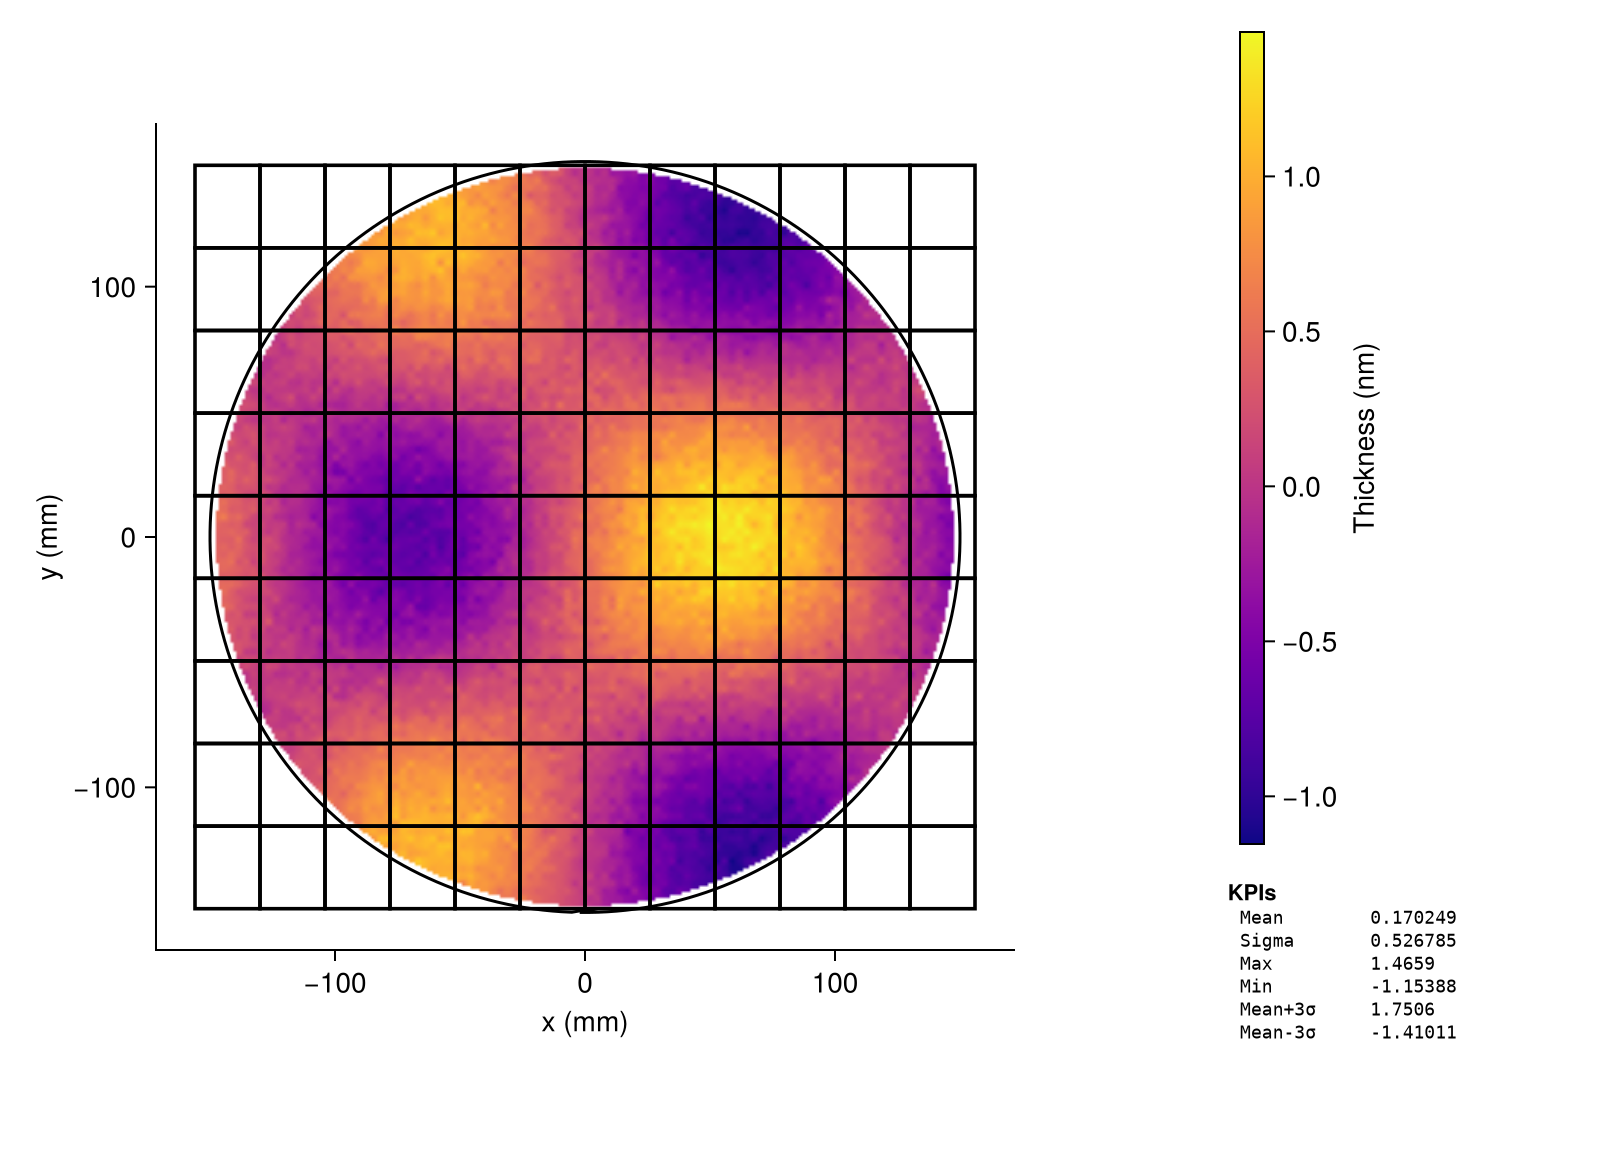
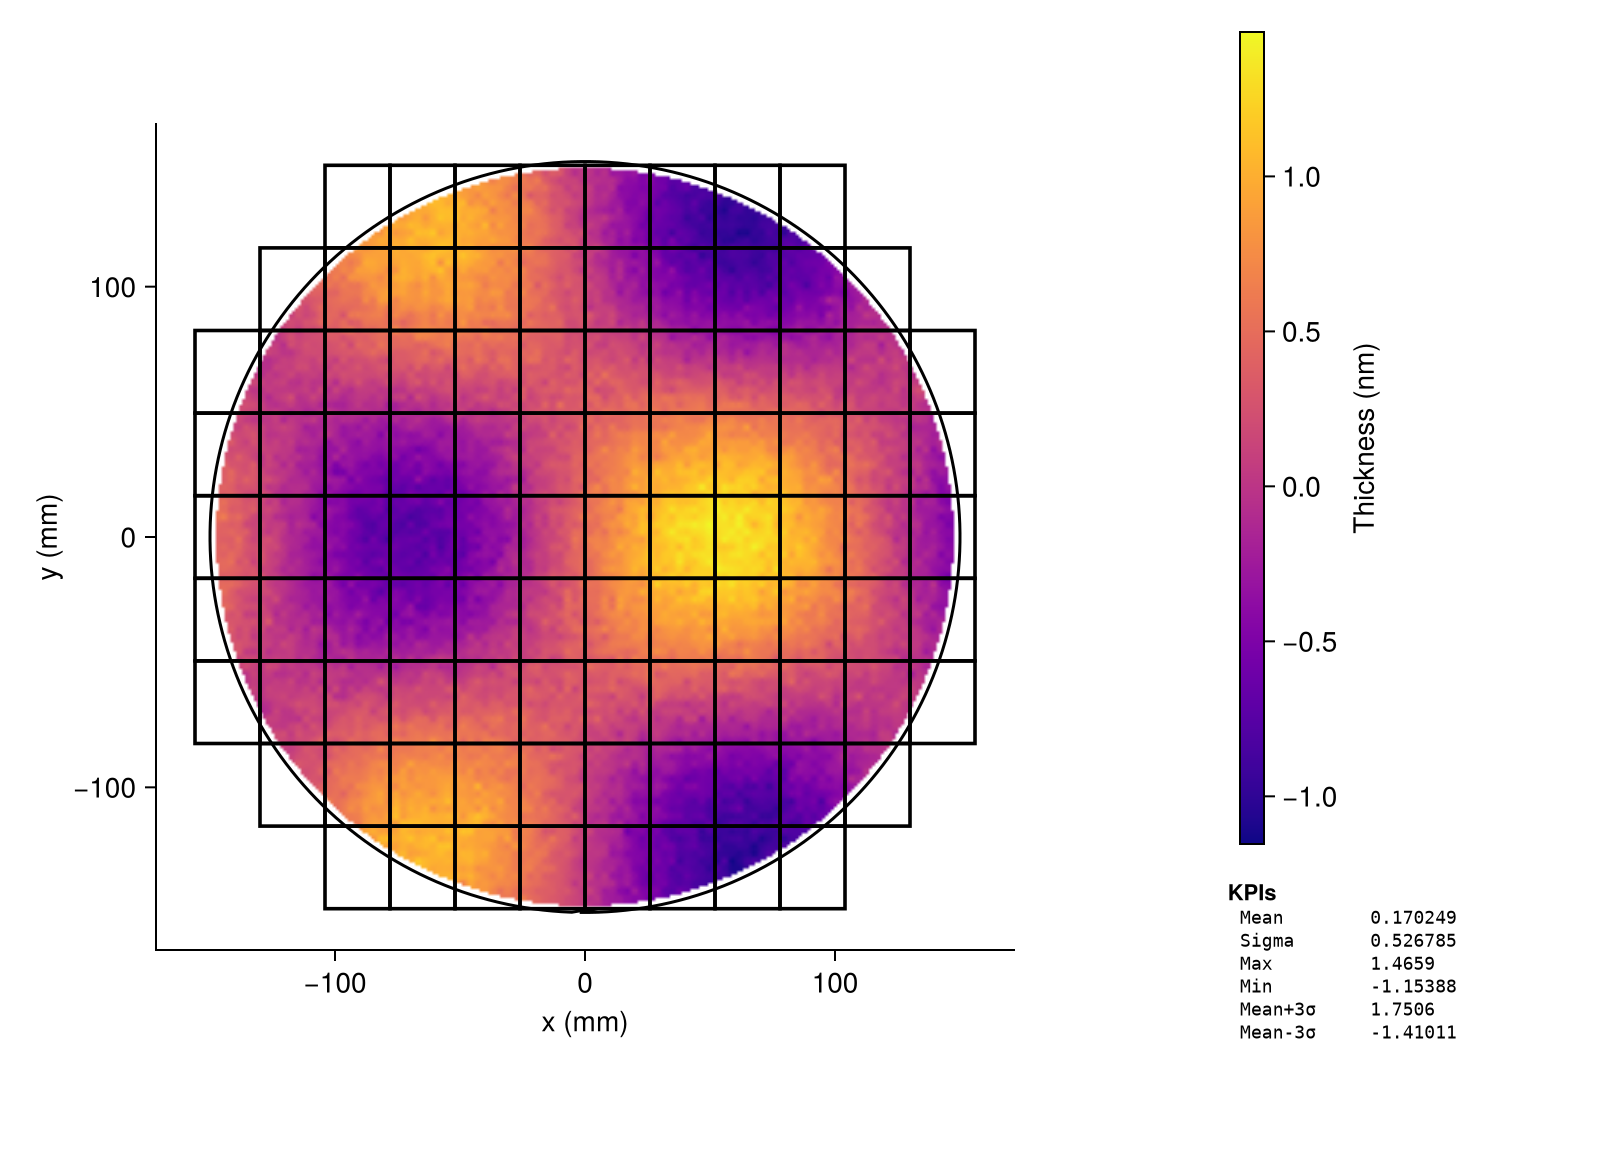
Filter completely-outside fields from gallery example
example_fields() now drops any field whose nearest point to the wafer
centre (clamp-to-rect geometry) lies outside r=150mm. 12 corner fields
are removed from the 12×9 grid, leaving 96 fields that all have at
least partial overlap with the wafer disk.

Update README, gallery.md, and getting_started.md snippets to show the
filter pattern.

diff --git a/docs/src/gallery.md b/docs/src/gallery.md
@@ -39,9 +39,18 @@ For a large regular-grid dataset (> 5 000 points), the recipe uses `imagemode=:i
 Pass a `fields` vector to `WaferData` to overlay exposure-field or die boundaries on any plot type. Fields may extend beyond the wafer edge.
 
 ```julia
-# 108 fields (12 columns × 9 rows) covering the full 300 mm wafer
-fields = vec([WaferField((ci - 0.5)*26.0, (ri - 5)*33.0, 26.0, 33.0, ci, ri)
-              for ri in 1:9, ci in -5:6])
+fw, fh = 26.0, 33.0
+r = wafer.diameter_mm / 2.0
+
+# 12 columns × 9 rows grid; drop fields that lie completely outside the wafer disk
+all_fields = vec([WaferField((ci - 0.5)*fw, (ri - 5)*fh, fw, fh, ci, ri)
+                  for ri in 1:9, ci in -5:6])
+fields = filter(all_fields) do f
+    hw, hh = fw/2, fh/2
+    nx = clamp(0.0, f.x_center_mm - hw, f.x_center_mm + hw)
+    ny = clamp(0.0, f.y_center_mm - hh, f.y_center_mm + hh)
+    nx^2 + ny^2 <= r^2
+end
 
 data = WaferData(table, wafer; fields=fields)
 

diff --git a/docs/src/getting_started.md b/docs/src/getting_started.md
@@ -66,9 +66,18 @@ Pass a `fields` vector when constructing `WaferData` to overlay rectangular
 exposure fields on any plot type.
 
 ```julia
-# 108 fields (12 cols × 9 rows) covering the full wafer; fields may extend beyond the edge
-fields = vec([WaferField((ci - 0.5)*26.0, (ri - 5)*33.0, 26.0, 33.0, ci, ri)
-              for ri in 1:9, ci in -5:6])
+fw, fh = 26.0, 33.0
+r = wafer.diameter_mm / 2.0
+
+# 12 × 9 grid; keep only fields that at least partially overlap the wafer
+all_fields = vec([WaferField((ci - 0.5)*fw, (ri - 5)*fh, fw, fh, ci, ri)
+                  for ri in 1:9, ci in -5:6])
+fields = filter(all_fields) do f
+    hw, hh = fw/2, fh/2
+    nx = clamp(0.0, f.x_center_mm - hw, f.x_center_mm + hw)
+    ny = clamp(0.0, f.y_center_mm - hh, f.y_center_mm + hh)
+    nx^2 + ny^2 <= r^2
+end
 
 data = WaferData(df, wafer; fields=fields)
 ```

diff --git a/README.md b/README.md
@@ -65,8 +65,15 @@ data = WaferData(df, grid, wafer)          # df has :col, :row, :value columns
 Pass a `fields` vector to draw exposure-field or die-boundary rectangles on any plot:
 
 ```julia
-fields = vec([WaferField((ci - 0.5)*26.0, (ri - 5)*33.0, 26.0, 33.0, ci, ri)
-              for ri in 1:9, ci in -5:6])   # 108 fields covering the wafer
+fw, fh, r = 26.0, 33.0, wafer.diameter_mm / 2.0
+all_fields = vec([WaferField((ci - 0.5)*fw, (ri - 5)*fh, fw, fh, ci, ri)
+                  for ri in 1:9, ci in -5:6])
+# drop fields that lie entirely outside the wafer disk
+fields = filter(all_fields) do f
+    nx = clamp(0.0, f.x_center_mm - fw/2, f.x_center_mm + fw/2)
+    ny = clamp(0.0, f.y_center_mm - fh/2, f.y_center_mm + fh/2)
+    nx^2 + ny^2 <= r^2
+end
 
 data = WaferData(table, wafer; fields=fields)
 p = waferheatmap!(ax, data; field_strokecolor=:black, field_strokewidth=1.5f0)